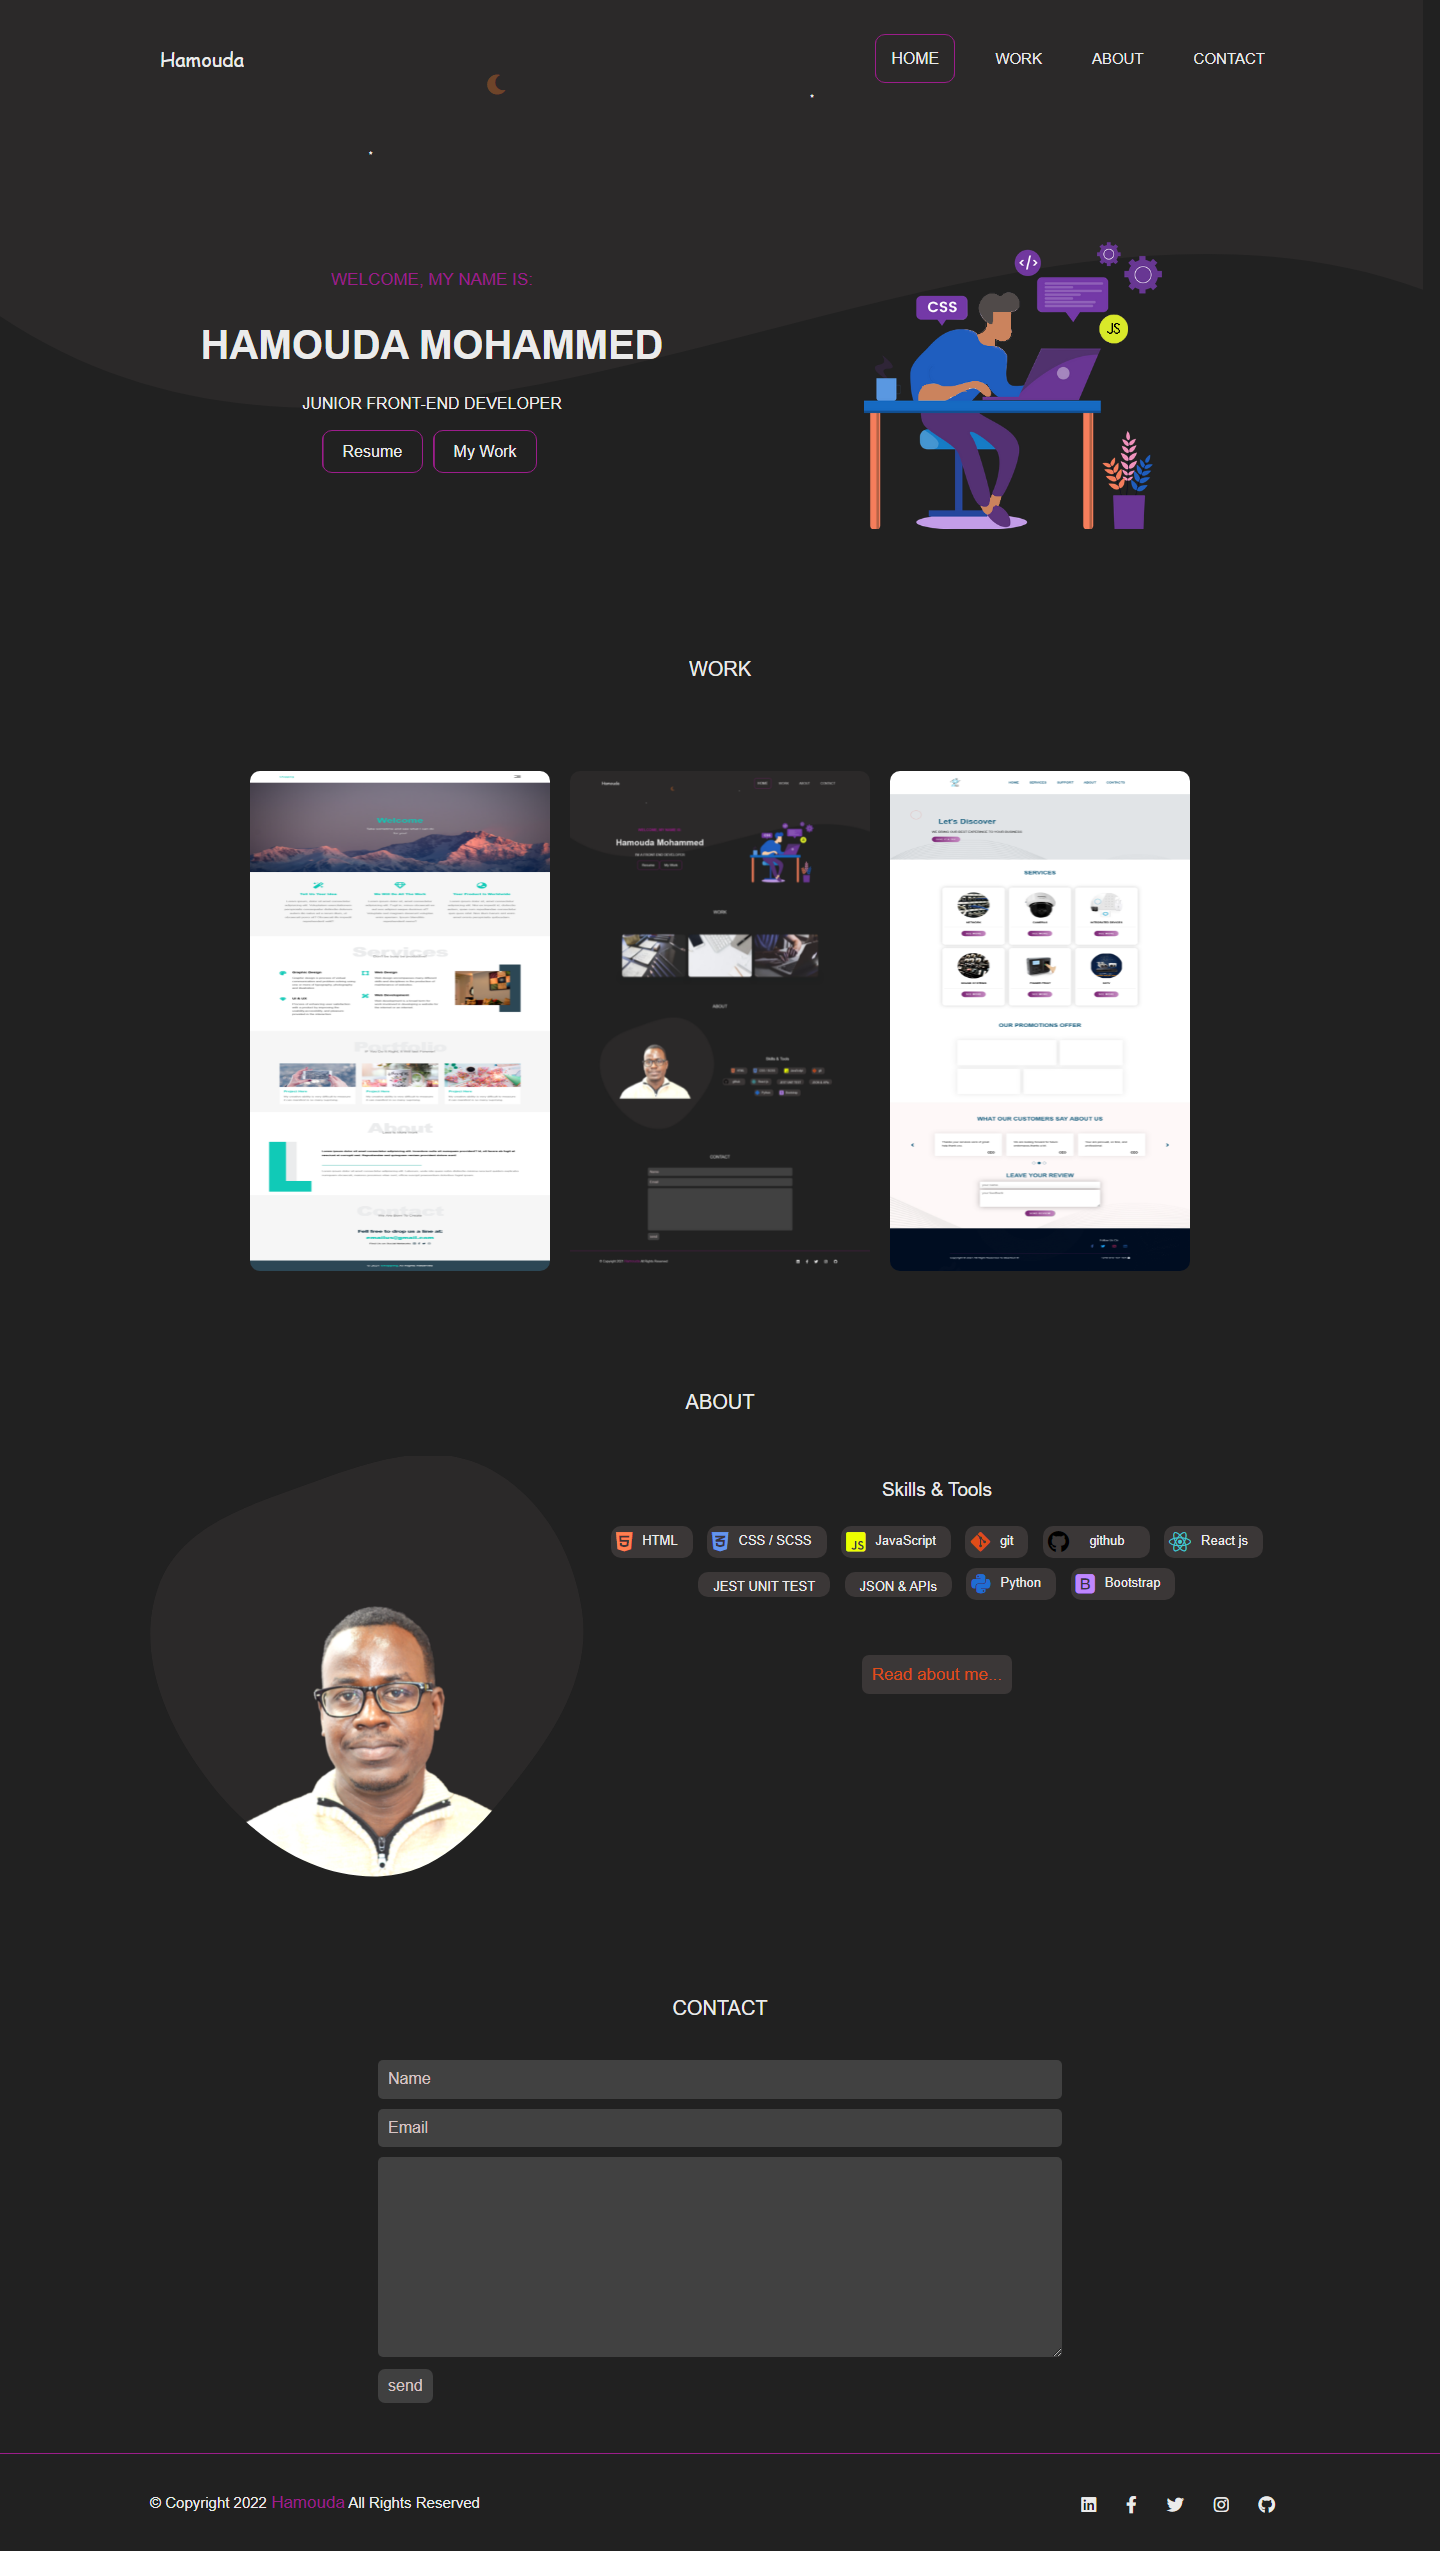
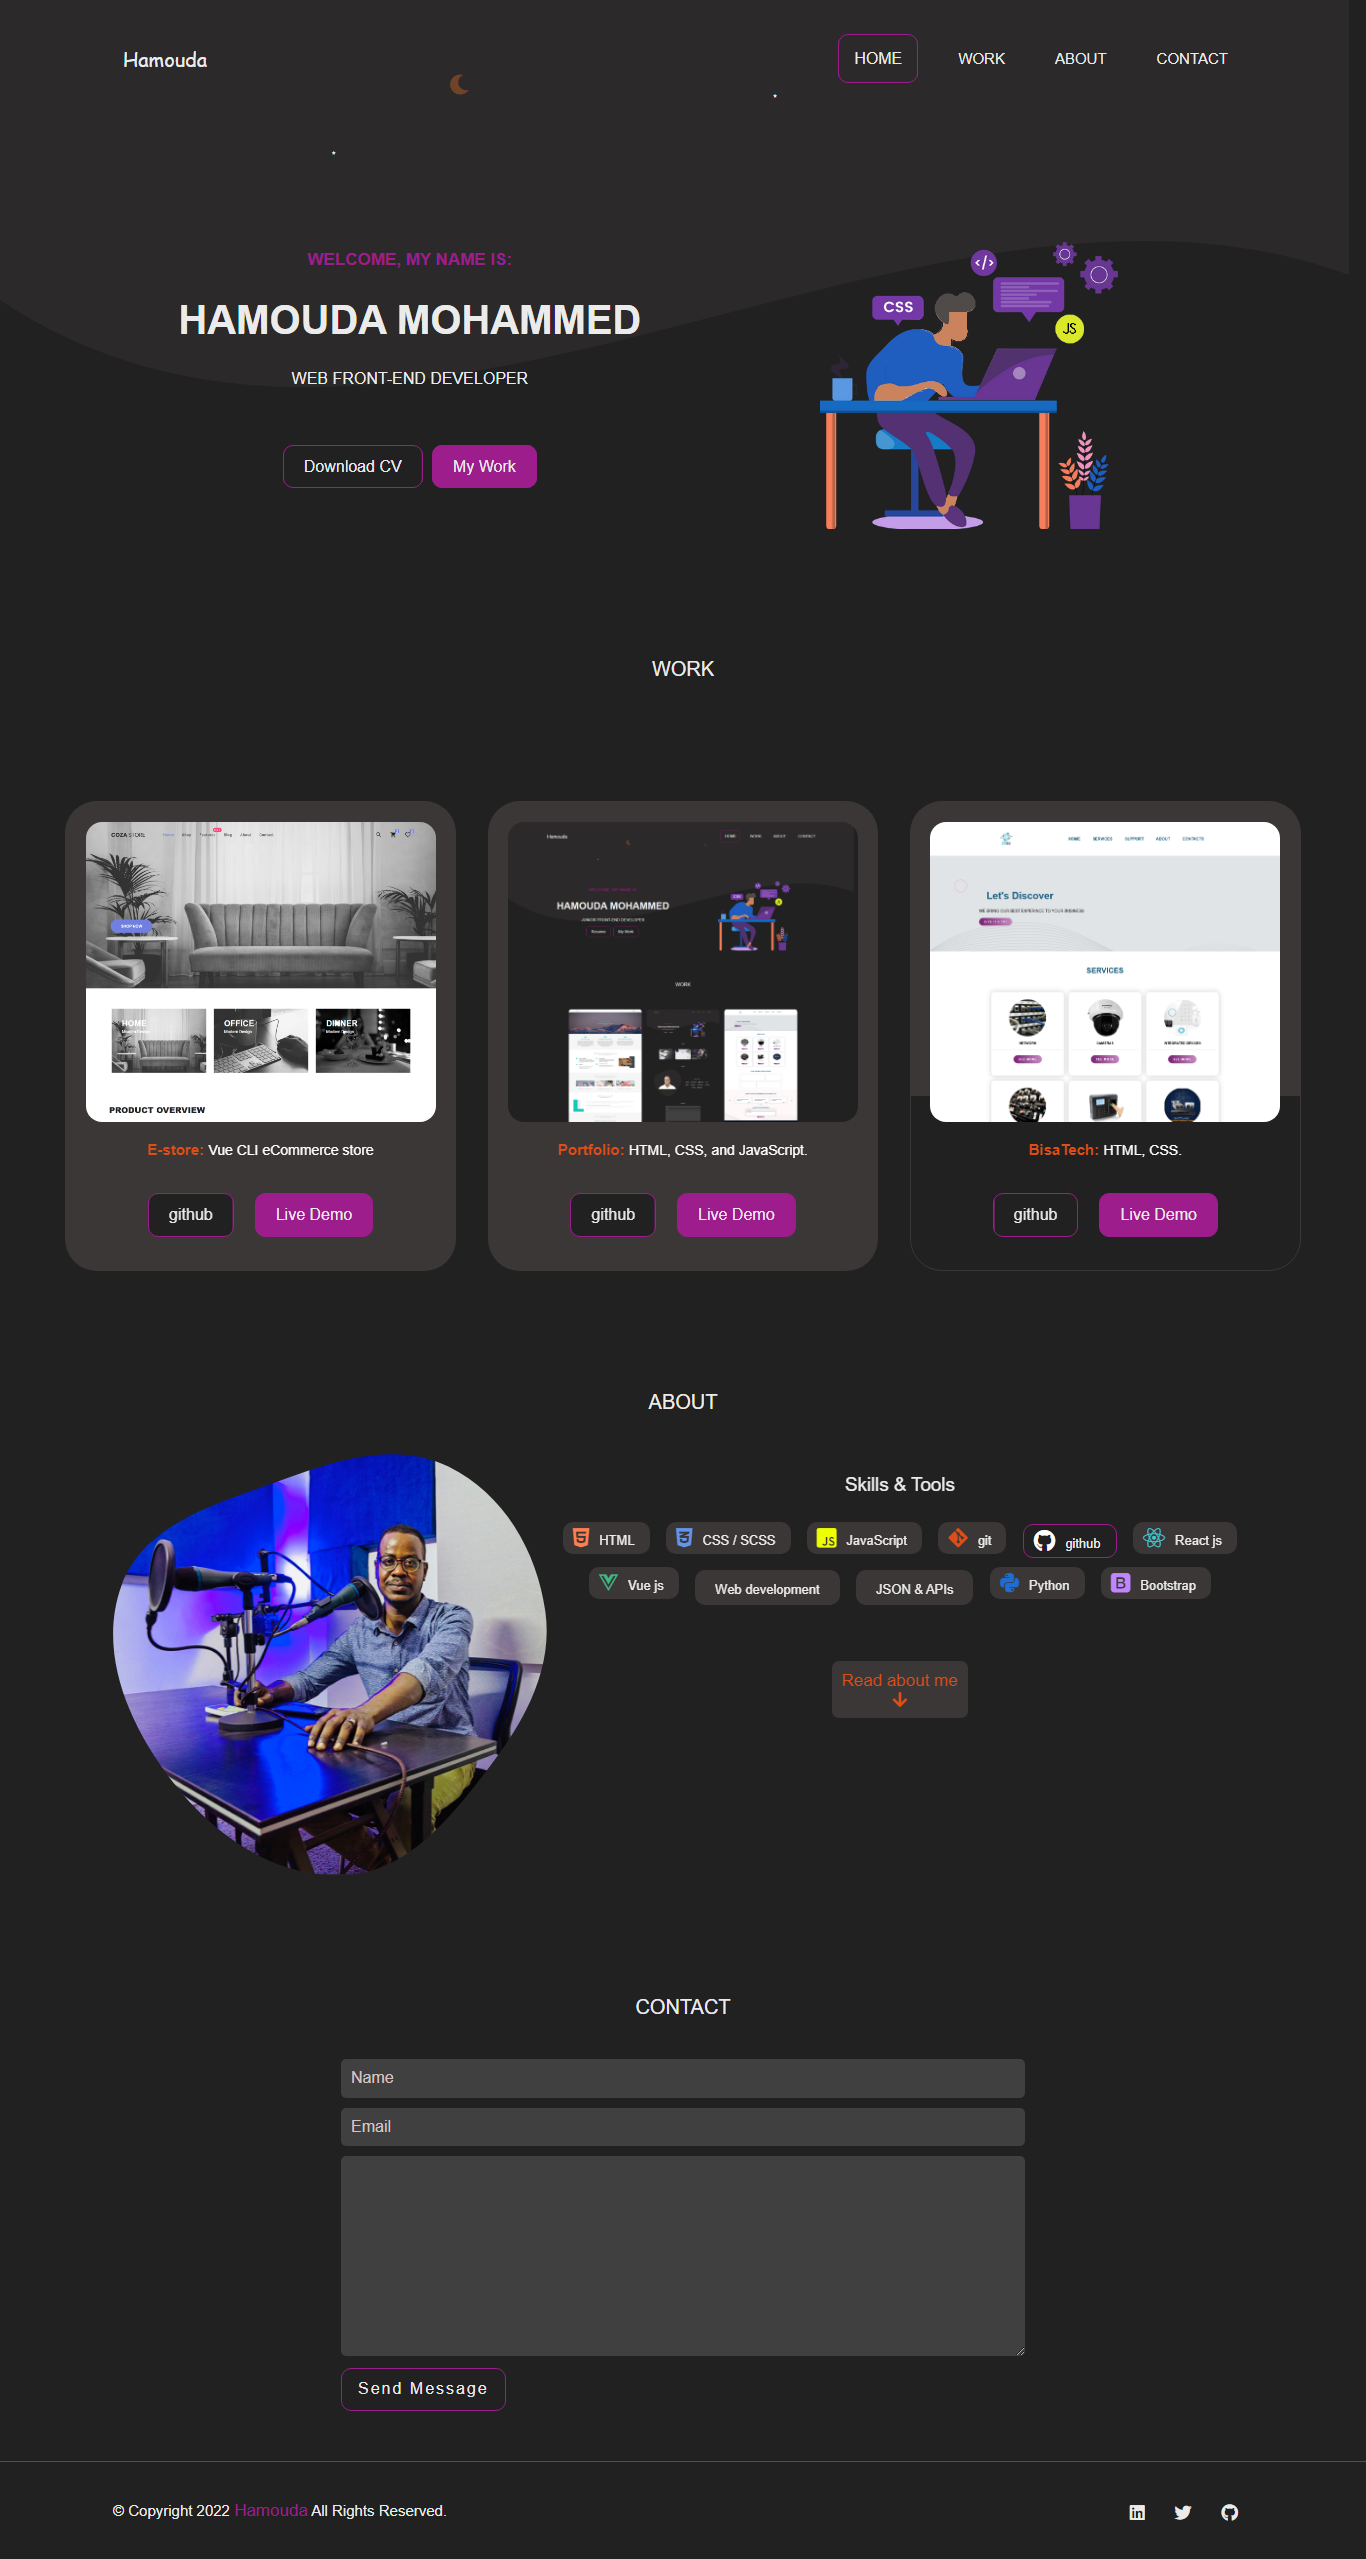
changed about me animation'

diff --git a/js/main.js b/js/main.js
@@ -1,30 +1,22 @@
 //Toggle between showing and hiding the navigation menu links when the user clicks on the hamburger menu / bar icon
 function toggleMenu() {
   let showMenu = document.getElementById("mobile-ul");
-  if (showMenu.style.display === "none") {
-    showMenu.style.display = "block";
-  } else {
-    showMenu.style.display = "none";
-  }
+  showMenu.style.display === "none" ? showMenu.style.display = "block" : showMenu.style.display = "none";
 }
-// change toggle icon using normal function
-const changeIcon = function(icon){
-  icon.classList.toggle('fa-times')
-}
+
+
+// change toggle icon with arrow function
+changeIcon = (icon)=> icon.classList.toggle('fa-times')
+
 
 //More about me
+let showText = document.getElementById("text");
 function showMore() {
-  let showText = document.getElementById("text");
-  if (showText.style.display === "none") {
-    showText.style.display = "block";
-  } else {
-    showText.style.display = "none";
-    element.style.transition = ("1s");
-  }
+  showText.classList.toggle('fade')
 }
 
-//Animation on scroll element fade-in
 
+//Animation on scroll element fade-in
 const scrollElements = document.querySelectorAll(".js-scroll");
 
 const elementInView = (el, dividend = 1) => {

diff --git a/css/main.css b/css/main.css
@@ -137,9 +137,11 @@ landing .right-box {
   width: 40%;
 }
 landing .right-box img {
-  width: 300px;
-  top: 53px;
+  width: 350px;
+  top: -50px;
   position: relative;
+  /* border: 1px solid var(--main-color); */
+  border-radius: 8px;
 }
 @media screen and (max-width: 768px) {
   landing {
@@ -282,28 +284,20 @@ bio .fa-github {
 .github:hover {
   transform: scale(1.1);
 }
-.about_me p {
+#text {
   width: 80%;
   margin: 10px auto;
   color: var(--second-color);
   line-height: 25px;
-  animation: drop-down 0.5s ease-in-out;
+  opacity: 0;
+  -webkit-transition: opacity 0.7s ease-in-out;
+  -moz-transition: opacity 0.7s ease-in-out;
+  -ms-transition: opacity 0.7s ease-in-out;
+  -o-transition: opacity 0.7s ease-in-out;
+  transition: opacity 0.7 ease-in-out;
 }
-@keyframes drop-down {
-  from {
-    transform: scale(0);
-  }
-  to {
-    transform: scale(1);
-  }
-}
-@keyframes fade-out {
-  from {
-    transform: scale(1);
-  }
-  to {
-    transform: scale(0);
-  }
+#text.fade {
+  opacity:1;
 }
 @media screen and (max-width: 991px) {
   .about_me p {
@@ -448,6 +442,7 @@ footer .icons a {
     justify-content: center;
   }
 }
+
 /*==========Styling scrollable elements==========*/
 .js-scroll {
   opacity: 0;

diff --git a/index.html b/index.html
@@ -86,7 +86,7 @@
         </div>
       </div>
       <div class="right-box">
-        <img src="images/work-steps.png" alt="" />
+        <img src="images/portfolio.png" alt="" />
       </div>
     </landing>
     <!--======Start Work======-->
@@ -227,10 +227,11 @@
           </div>
           <div class="about_me" id="about_me">
             <button onclick="showMore()">Read about me <i class="fas fa-arrow-down"></i></button>
-            <p id="text" style="display: none;">
-              Hello, I'm Hamouda ,<br>
-              a web front-end developer. I aspire to bring value to the tech industry with my technical skillset. To accomplish that, I focus on both hard and soft skills.
-	      Along the way, these tools  Have helped. HTML, CSS, JavaScript, react.js, and Vue.js.
+            <p id="text">
+              Hello, I'm Hamouda,<br>
+              a web front-end developer. I aspire to bring value to the tech industry with my technical skill-set.
+              To accomplish that, I focus on both hard and soft skills.
+	            Along the way, these tools  Have helped. HTML, CSS, JavaScript, react.js, and Vue.js.
             </p>
           </div>
         </div>
